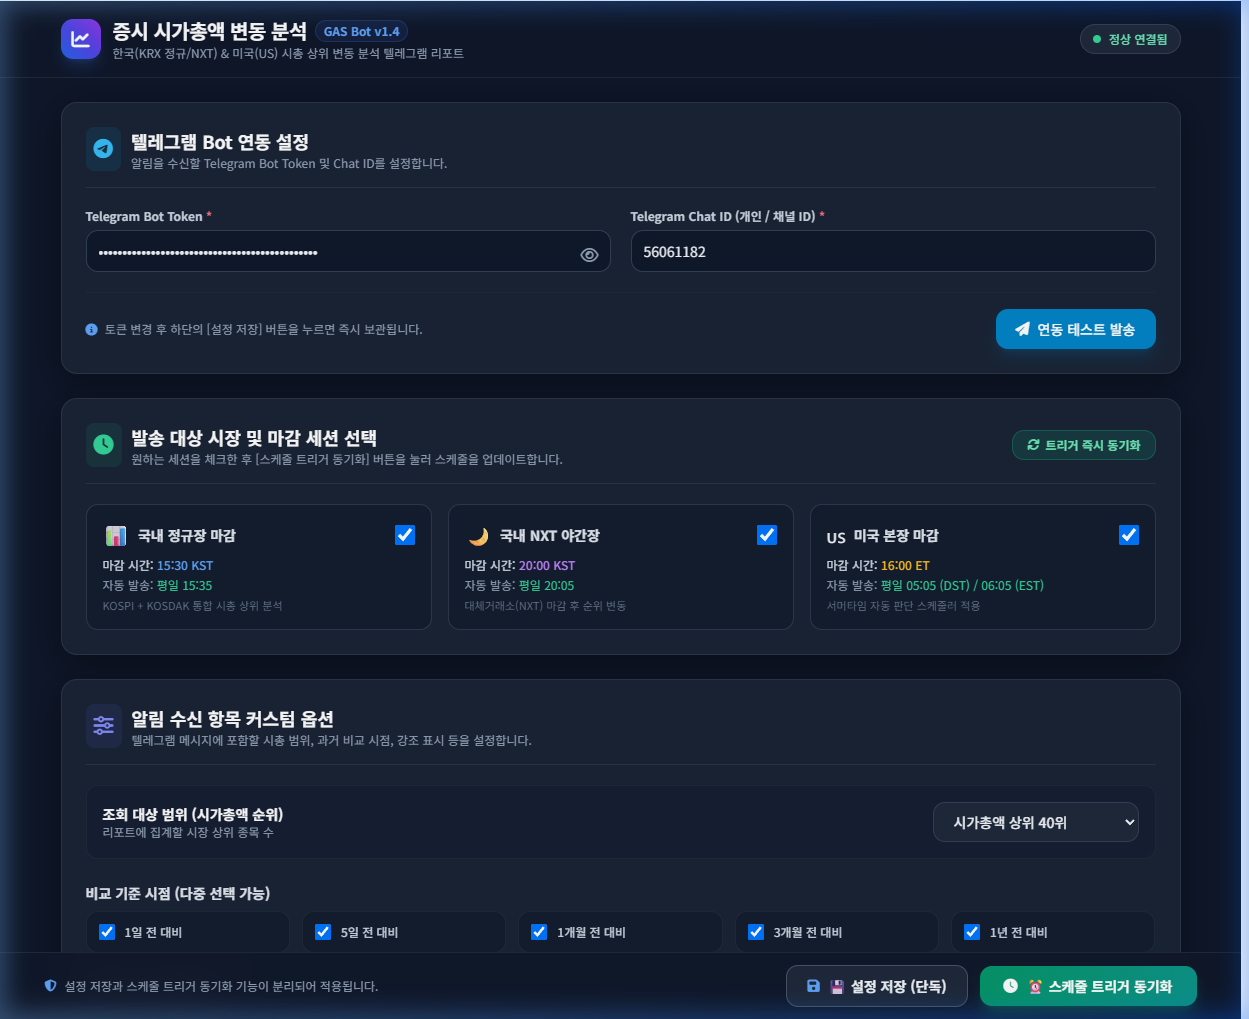
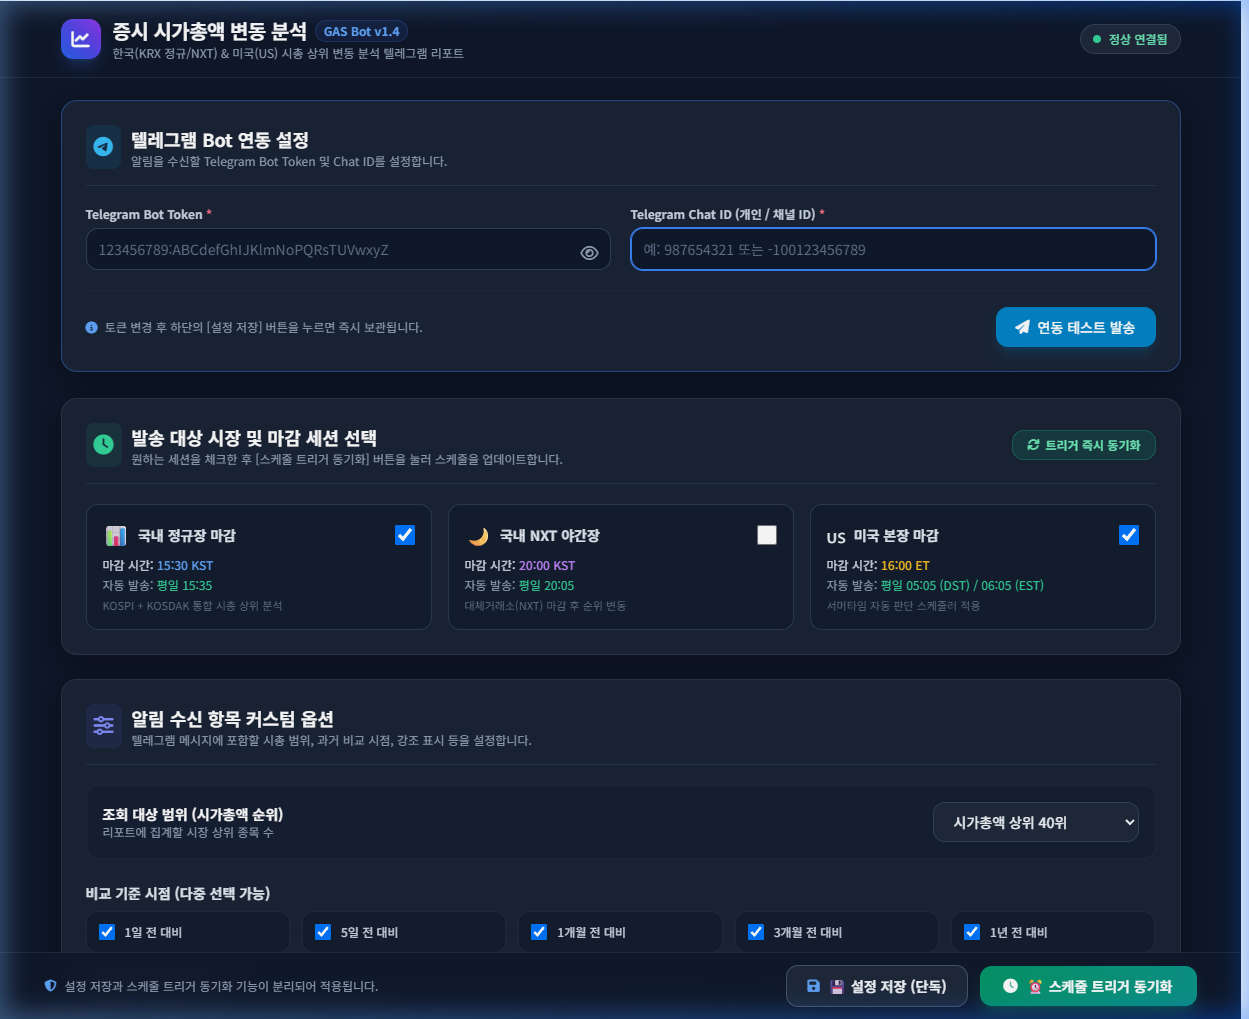
Update README: Remove public Web App URL and replace screenshot with masked Telegram credentials

diff --git a/README.html b/README.html
@@ -43,10 +43,8 @@
 
 ---
 
-## 🔗 최신 배포 실행 주소
+## 🔗 프로젝트 저장소 및 안내
 
-- **배포 Web App URL**: https://script.google.com/macros/s/AKfycbyRzuxSKuY7kfqaBvqzJw5L54abycadrX1nuSRKEg1ucIFvilCaaOnMN5lHhWu2Ylf6/exec
-- **GAS 프로젝트 편집기**: https://script.google.com/home/projects/15e5lRqFYzYIiO-nYcg9zLPJKGRTxSv9tSSoZ_95gLQG8K4XvEjlWF0K9/edit
 - **GitHub 저장소**: https://github.com/moozuknet/StockRankInfo
   </pre>
 </body>

diff --git a/README.md b/README.md
@@ -4,7 +4,7 @@
 
 ---
 
-## 📸 최종 대시보드 스크린샷 (Web App UI)
+## 📸 대시보드 스크린샷 (Web App UI)
 
 ![웹 대시보드 미리보기](assets/dashboard_preview.png)
 
@@ -65,7 +65,7 @@ flowchart TD
 
 ## 📩 텔레그램 수신 메시지 예시
 
-텔레그램에서 수신되는 HTML 포맷 메시지의 최신 예시입니다:
+텔레그램에서 수신되는 HTML 포맷 메시지의 예시입니다:
 
 ```html
 [📊 국내 정규장 마감 시총 분석]
@@ -102,8 +102,7 @@ flowchart TD
 
 ---
 
-## 🔗 최신 배포 실행 주소
+## 🔗 프로젝트 저장소 및 안내
 
-- **배포 Web App URL**: [https://script.google.com/macros/s/AKfycbyRzuxSKuY7kfqaBvqzJw5L54abycadrX1nuSRKEg1ucIFvilCaaOnMN5lHhWu2Ylf6/exec](https://script.google.com/macros/s/AKfycbyRzuxSKuY7kfqaBvqzJw5L54abycadrX1nuSRKEg1ucIFvilCaaOnMN5lHhWu2Ylf6/exec)
-- **GAS 프로젝트 편집기**: [Google Apps Script Editor](https://script.google.com/home/projects/15e5lRqFYzYIiO-nYcg9zLPJKGRTxSv9tSSoZ_95gLQG8K4XvEjlWF0K9/edit)
 - **GitHub 저장소**: [https://github.com/moozuknet/StockRankInfo](https://github.com/moozuknet/StockRankInfo)
+- **실행 가이드**: [DEVELOPMENT_GUIDE.md](DEVELOPMENT_GUIDE.md) 참고
